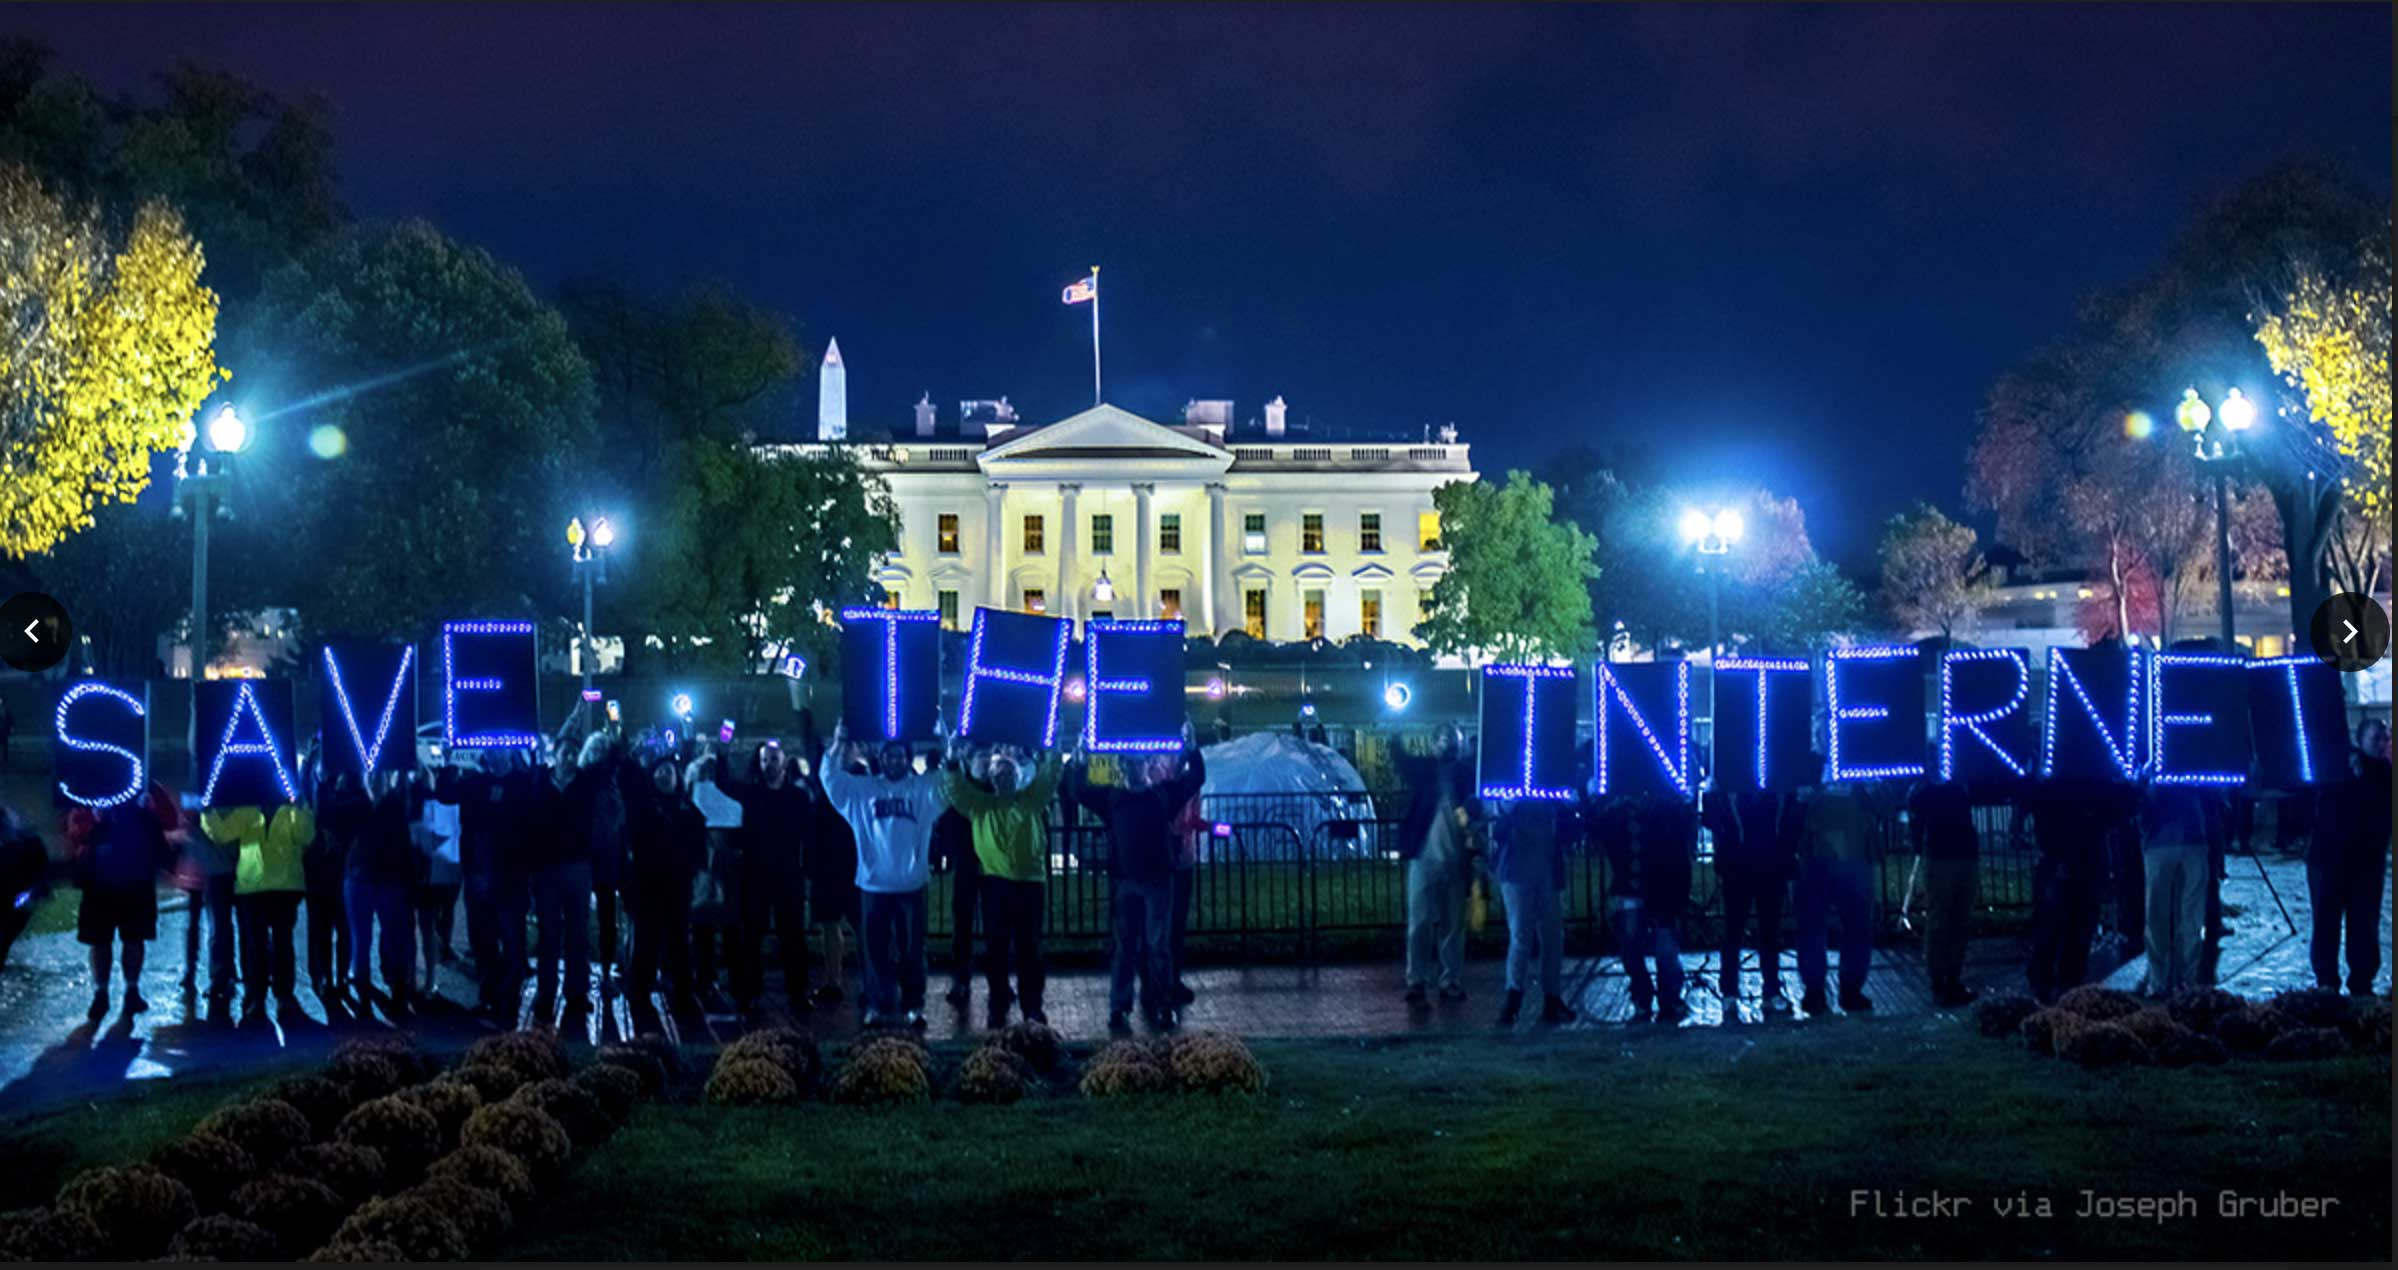
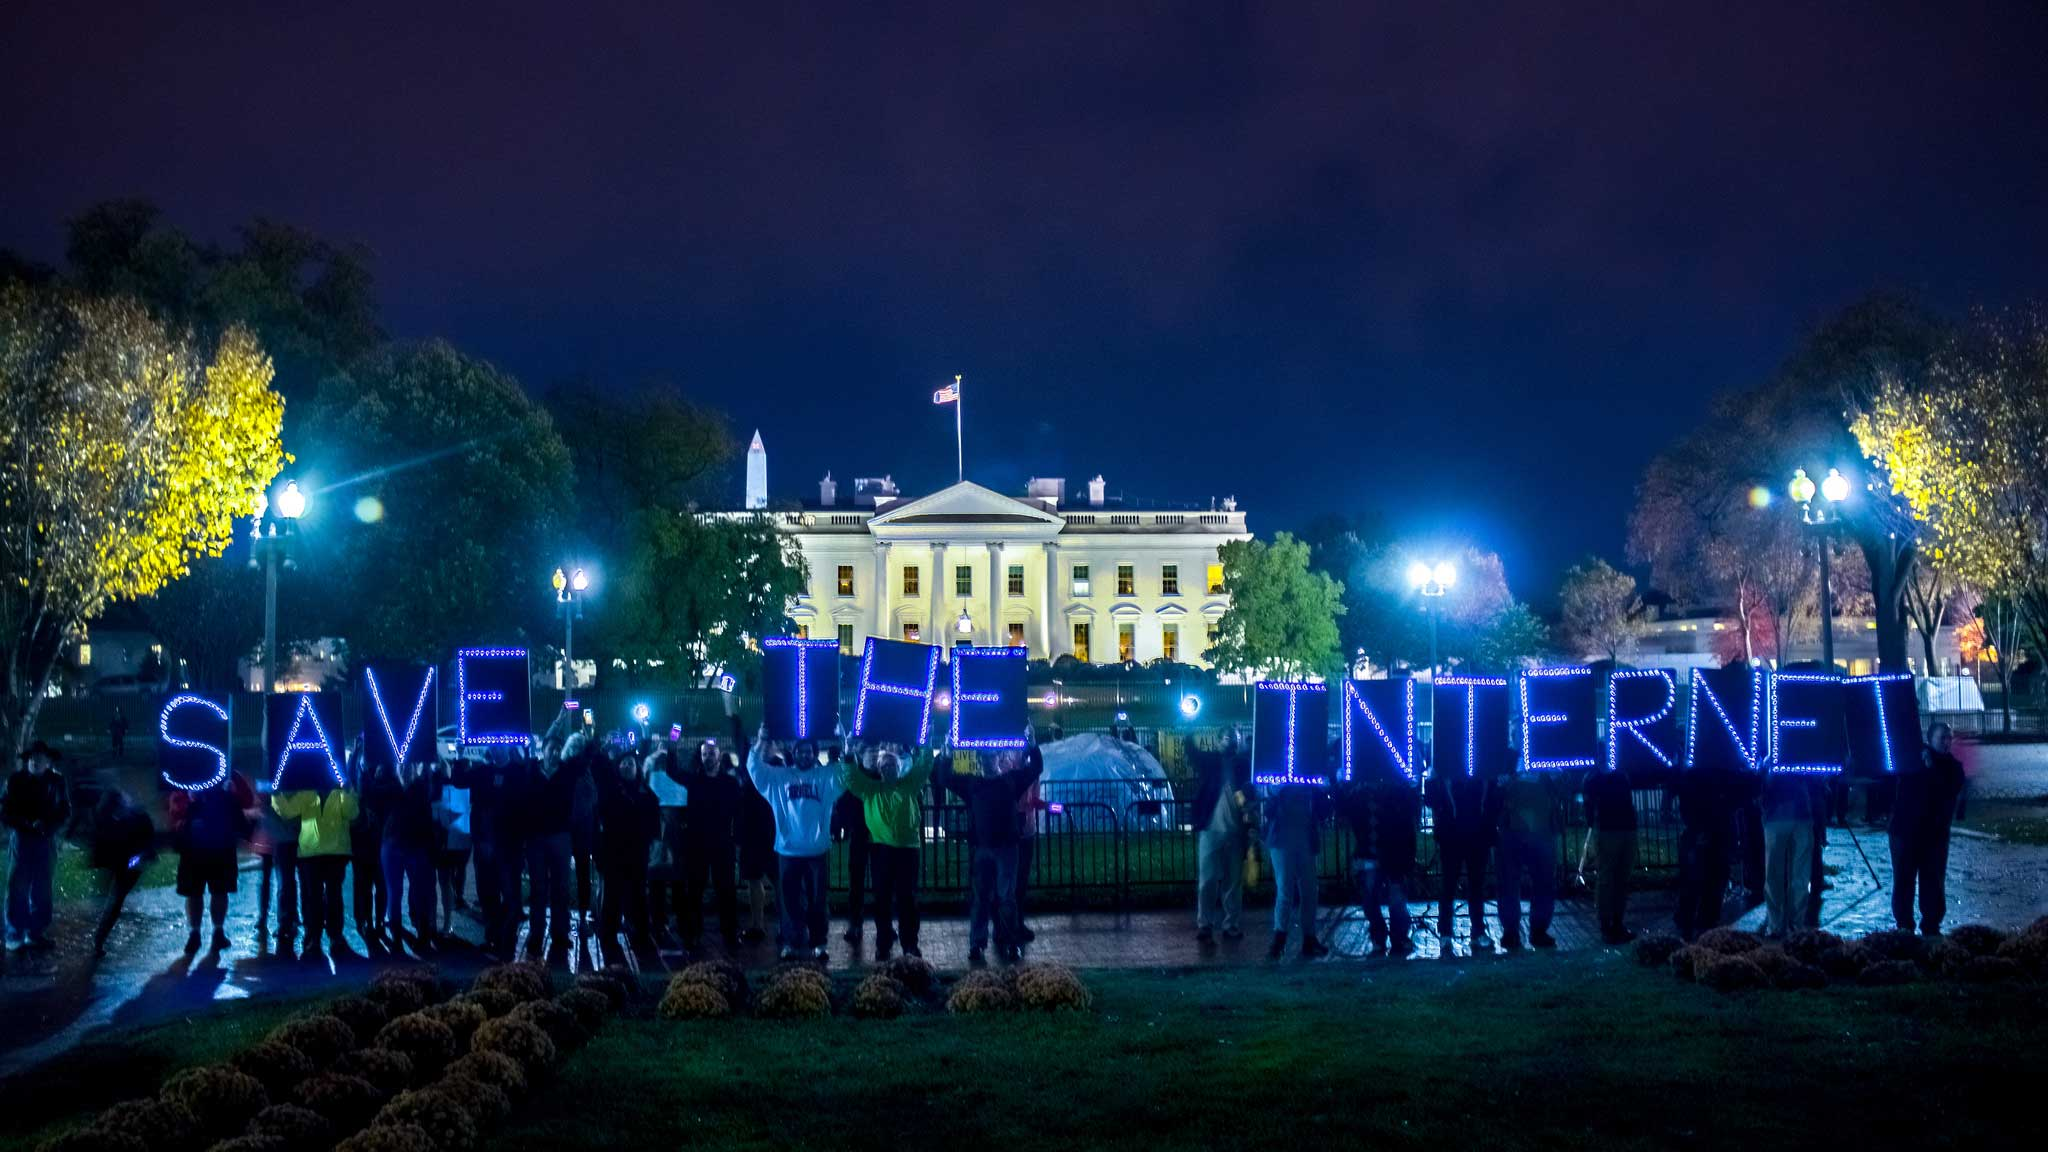
New header image.

diff --git a/less/pages/net-neutrality/comment.less b/less/pages/net-neutrality/comment.less
@@ -456,18 +456,30 @@
 
   .nn-comments-header {
     padding: 1.2rem 1.5rem;
-    height: 70vh;
+    height: 24rem;
     display: flex;
     flex-direction: column;
     justify-content: space-between;
-    background-image: url("/assets/net-neutrality/breaking-glass.jpg");
-    background-size: cover;
+    background-image: url("/assets/net-neutrality/save-the-internet.jpg");
+    background-color: #000000;
+    background-size: 100%;
     background-position: 50%;
+    background-repeat: no-repeat;
     h1, p {
       display: inline;
       box-decoration-break: clone;
       margin: 0;
       padding: 0.2rem 0.4rem;
+    }
+    position: relative;
+    .attribution {
+      position: absolute;
+      color: #FFFFFF;
+      opacity: 0.6;
+      right: 0;
+      bottom: 0;
+      margin: 1.2rem 1.5rem;
+      font-size: 0.8rem;
     }
     h1 {
       color: #FFFFFF;

diff --git a/src/pages/net-neutrality/petition.js b/src/pages/net-neutrality/petition.js
@@ -86,6 +86,7 @@ var Signup = React.createClass({
                   <br/>
                   <p>*Not the Internet. The FCC.</p>
                 </div>
+                <a className="attribution" href="https://www.flickr.com/photos/josephgruber/15109096143/in/photolist-p294TD-pY1vRA">Image by Joseph Gruber, CC BY-NC-ND 2.0</a>
               </div>
               <div className="form-body-border">
                 <div className="form-body">
